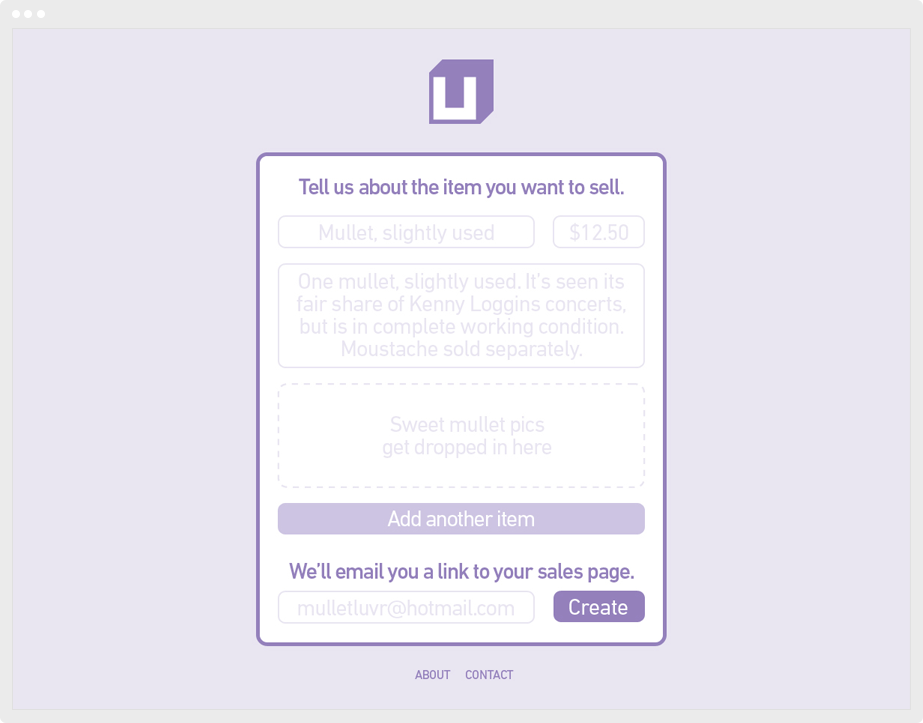
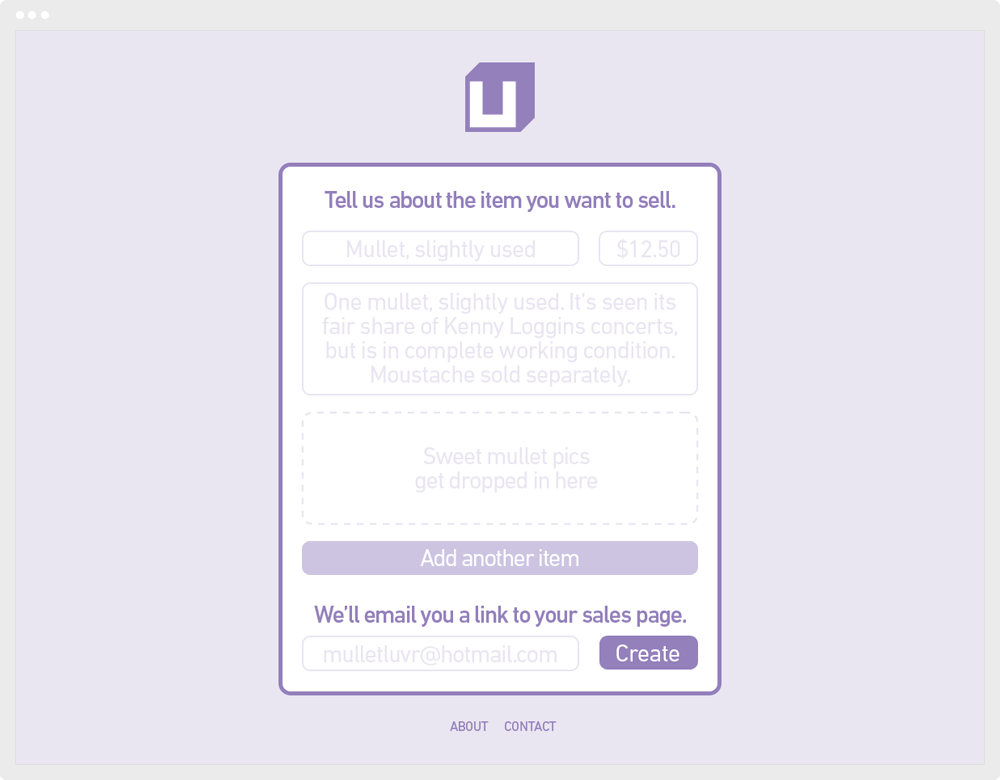
images added, styles fixed, heroku deploy settings created

diff --git a/source/javascripts/all.js b/source/javascripts/all.js
@@ -18,7 +18,7 @@ $(document).ready(function() {
             var bottom_of_object = $(this).position().top + $(this).outerHeight();
             var bottom_of_window = $(window).scrollTop() + $(window).height();
 
-            /* If the object is completely visible in the window, fade it it */
+            /* If the object is completely visible in the window, fade it in */
             if( bottom_of_window > bottom_of_object ){
 
                 $(this).animate({
@@ -33,4 +33,19 @@ $(document).ready(function() {
 
     });
 
+});
+
+$(function() {
+  $('a[href*=#]:not([href=#])').click(function() {
+    if (location.pathname.replace(/^\//,'') == this.pathname.replace(/^\//,'') && location.hostname == this.hostname) {
+      var target = $(this.hash);
+      target = target.length ? target : $('[name=' + this.hash.slice(1) +']');
+      if (target.length) {
+        $('html,body').animate({
+          scrollTop: target.offset().top
+        }, 800, 'easeOutQuart');
+        return false;
+      }
+    }
+  });
 });

diff --git a/source/stylesheets/main.scss b/source/stylesheets/main.scss
@@ -10,13 +10,23 @@
 $background : hsla(0, 0%, 0%, 0.03);
 
 
-// Helper Variables
+// Mixins
 
+@mixin hover-btn {
+	@include transition ($ease-out);
+	&:hover, &:focus, &:active {
+		text-decoration: none;
+		color: white;
+		background-color: black;
+		cursor: pointer;
+		@include transition ($ease-in);
+	}
+}
 
 // Animations
 
-$ease-in	    : all 50ms ease-in;
-$ease-out	    : all 50ms ease-out;
+$ease-in	    : all 150ms ease-in;
+$ease-out	    : all 150ms ease-out;
 
 // Body and Main Elements
 
@@ -77,7 +87,19 @@ img {
 
 .scroll {
 	@extend .center;
-	top: 93%;
+	top: 58%;
+}
+
+.button {
+	border-radius: 0.4em;
+	border:0.1rem solid black;
+	width: auto;
+	padding: 0.6em 1.2em;
+	text-decoration: none;
+	font-size: 1.2em;
+	font-weight: normal;
+	font-size: 1.3125rem;
+	@include hover-btn;
 }
 
 .spacer {
@@ -107,5 +129,5 @@ width: 50em;
 }
 
 .footer p {
-	margin-bottom: 0.2em;
+	margin-bottom: 0.05em;
 }

diff --git a/source/404.html b/source/404.html
@@ -1,0 +1,10 @@
+<!doctype html>
+<html>
+<head>
+  <meta charset=utf-8>
+  <title>Page not found</title>
+</head>
+<body>
+<p>The content you were looking for cannot be found.</p>
+</body>
+</html>

diff --git a/config.rb b/config.rb
@@ -48,6 +48,11 @@ activate :livereload
 #   end
 # end
 
+activate :directory_indexes
+
+set :build_dir, "tmp"
+
+
 set :css_dir, 'stylesheets'
 
 set :js_dir, 'javascripts'
